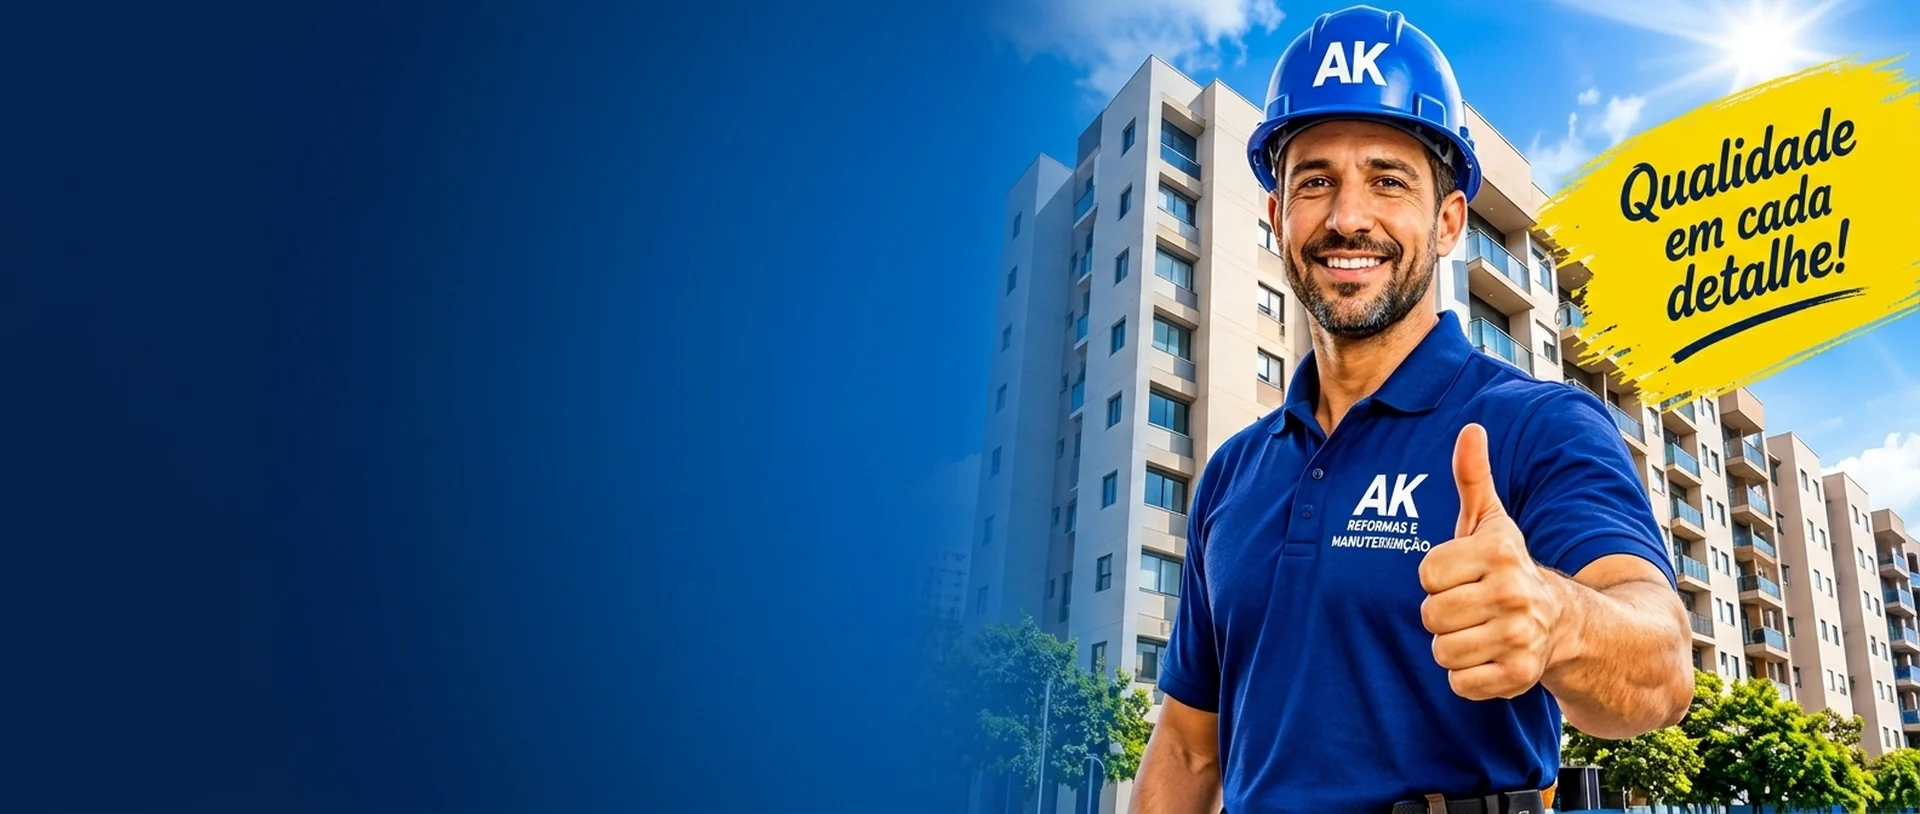
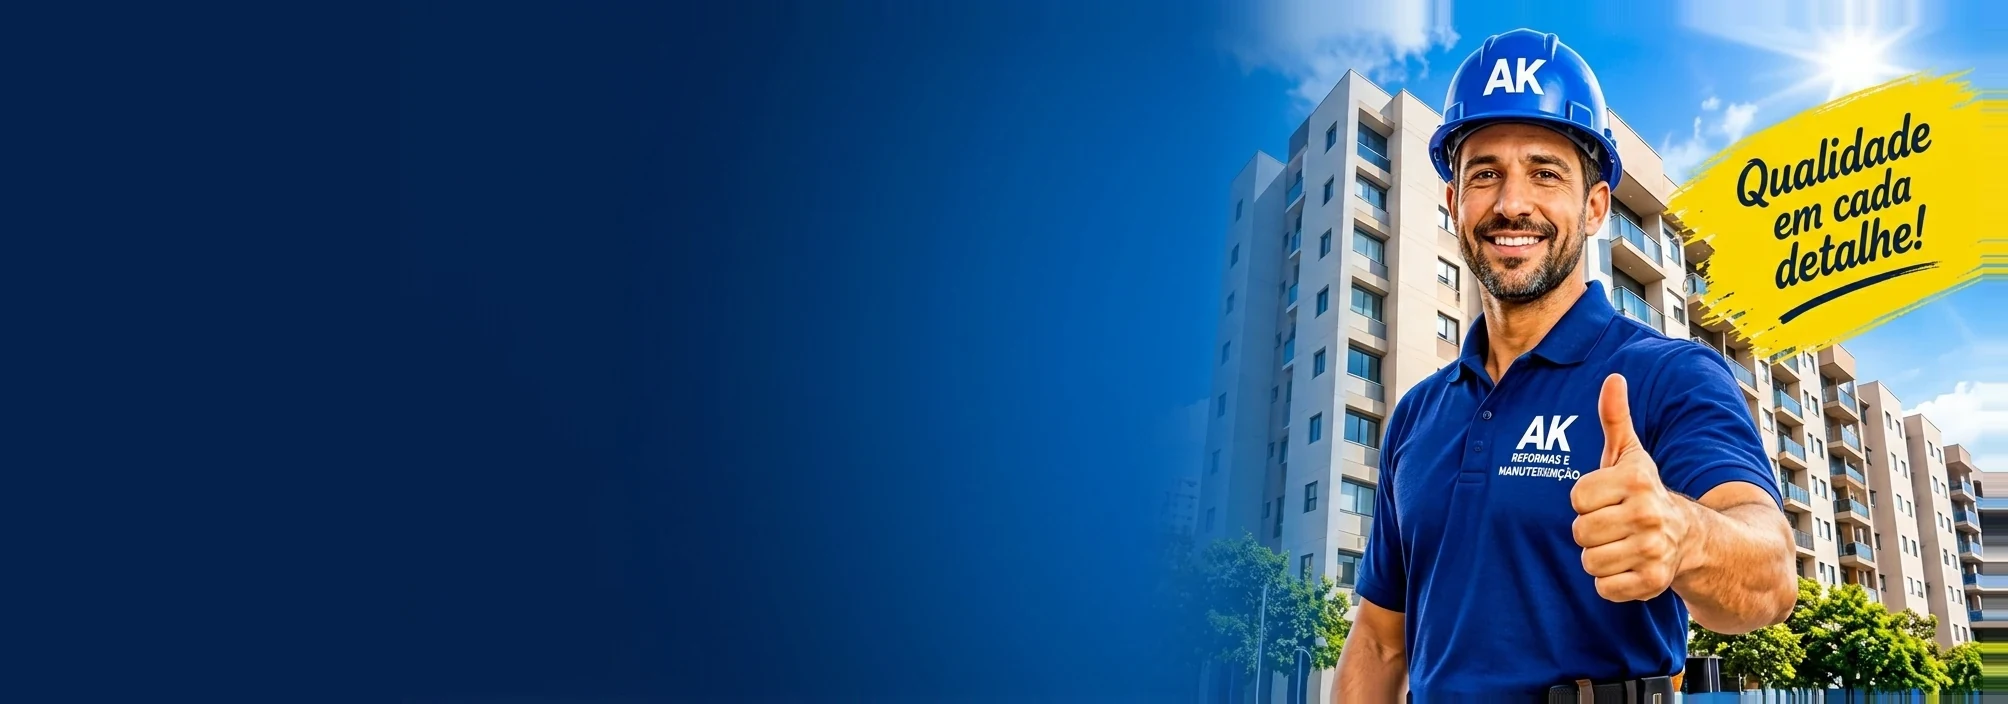
fix(hero): anchor background to right, prevent helmet and badge clipping, crop only on left

diff --git a/src/components/Hero.tsx b/src/components/Hero.tsx
@@ -33,31 +33,27 @@ export const Hero: React.FC<HeroProps> = ({
   onOpenQuoteModal,
 }) => {
   return (
-    <section id="inicio" className="relative overflow-hidden bg-[#023373] text-white">
-      {/* Background WebP Image */}
-      <div className="absolute inset-0 z-0">
-        <picture>
+    <section id="inicio" className="relative overflow-hidden bg-[#03214a] text-white min-h-[540px] sm:min-h-[580px] lg:min-h-[640px] flex items-center">
+      {/* Background Container anchored to the RIGHT, scaling to 100% height without any cropping of helmet or yellow badge */}
+      <div className="absolute inset-0 z-0 flex justify-end overflow-hidden bg-[#03214a] pointer-events-none select-none">
+        <picture className="h-full flex justify-end shrink-0">
           <source media="(max-width: 768px)" srcSet="/extracted/header_bg_mobile.webp" type="image/webp" />
           <source media="(min-width: 769px)" srcSet={backgroundImage} type="image/webp" />
           <img
             src={backgroundImage}
             alt="AK Reformas e Manutenção Predial Fundo Header"
-            className="w-full h-full object-cover object-right lg:object-center"
+            className="h-full w-auto max-w-none object-contain object-right"
             loading="eager"
             fetchPriority="high"
           />
         </picture>
-        {/* Soft gradient overlay on left for 100% text contrast and readability */}
-        <div className="absolute inset-0 bg-gradient-to-r from-[#022859]/90 via-[#033b7b]/55 to-transparent pointer-events-none" />
+        {/* Seamless left-side blend ensuring ultra-wide screens fade smoothly into #03214a */}
+        <div className="absolute inset-y-0 left-0 w-32 sm:w-72 bg-gradient-to-r from-[#03214a] to-transparent pointer-events-none" />
+        {/* Soft overlay on mobile to ensure perfect text contrast */}
+        <div className="absolute inset-0 bg-[#03214a]/60 lg:hidden pointer-events-none" />
       </div>
 
-      {/* Top curved wave separator */}
-      <div className="absolute top-0 left-0 right-0 h-4 bg-white rounded-b-[40px] z-10 hidden sm:block opacity-95" />
-
-      {/* Subtle radial sunburst in the background */}
-      <div className="absolute top-0 left-1/4 w-[500px] h-[500px] bg-sky-300/15 rounded-full blur-3xl pointer-events-none" />
-
-      <div className="max-w-[1240px] mx-auto px-4 sm:px-6 lg:px-8 pt-8 pb-12 sm:pb-16 lg:pb-20 relative">
+      <div className="max-w-[1240px] mx-auto px-4 sm:px-6 lg:px-8 pt-8 pb-12 sm:pb-16 lg:pb-20 relative w-full">
         <div className="grid grid-cols-1 lg:grid-cols-12 gap-8 items-center">
           
           {/* Left Column: Headlines, Paragraph, and Yellow CTA Button */}
@@ -217,7 +213,7 @@ export const Hero: React.FC<HeroProps> = ({
             </div>
 
             {/* Desktop View: Dedicated column space allowing the integrated background artwork with contractor & building to stand out seamlessly */}
-            <div className="hidden lg:block relative w-full max-w-[520px] xl:max-w-[560px] min-h-[460px] xl:min-h-[520px] -mb-12 sm:-mb-16 lg:-mb-20 self-end pointer-events-none" />
+            <div className="hidden lg:block relative w-full max-w-[500px] xl:max-w-[560px] min-h-[480px] xl:min-h-[540px] pointer-events-none" />
 
           </div>
 
